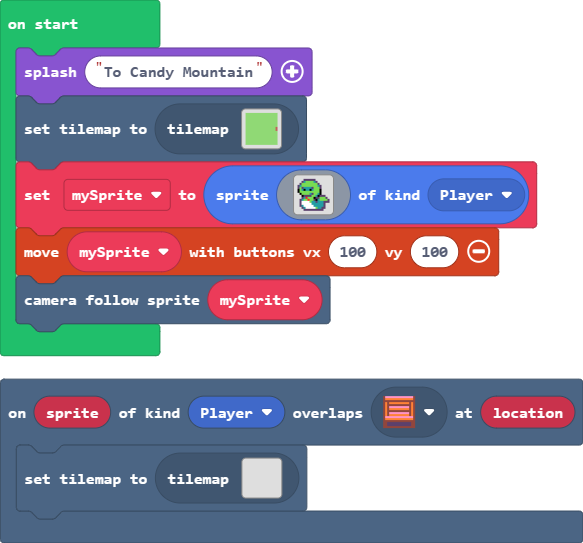
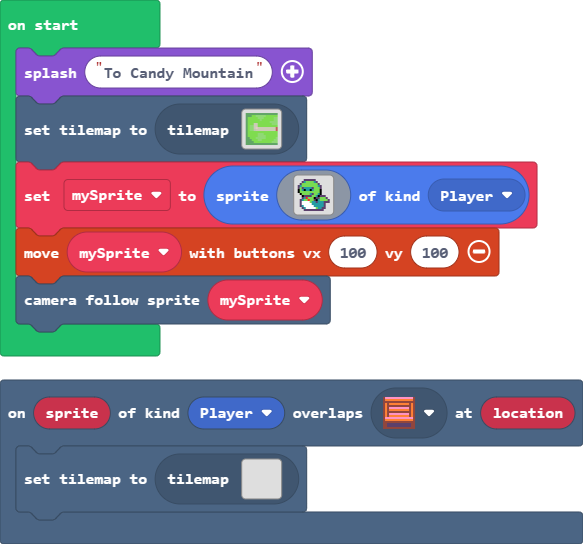
tilemap

diff --git a/tilemap.g.ts b/tilemap.g.ts
@@ -4,6 +4,8 @@ namespace myTiles {
     export const transparency16 = image.ofBuffer(hex``);
     //% fixedInstance jres blockIdentity=images._tile
     export const tile1 = image.ofBuffer(hex``);
+    //% fixedInstance jres blockIdentity=images._tile
+    export const tile2 = image.ofBuffer(hex``);
 
     helpers._registerFactory("tilemap", function(name: string) {
         switch(helpers.stringTrim(name)) {
@@ -46,24 +48,24 @@ namespace myTiles {
 . . . . . . . . . . . . . . . . 
 `, [myTiles.transparency16], TileScale.Sixteen);
             case "level2":
-            case "level2":return tiles.createTilemap(hex`1000100001010101010101010101010101010101010101010101010101010101010101010101010101010101010101010101010101010101010101010101010101010101010101010101010101010101010101010101010101010101010101010101010101010101010101010101010101010101010101010101010101010101010101020101010101010101010101010101010201010101010101010101010101010101010101010101010101010101010101010101010101010101010101010101010101010101010101010101010101010101010101010101010101010101010101010101010101010101010101010101010101010101010101010101010101010101`, img`
-. . . . . . . . . . . . . . . . 
-. . . . . . . . . . . . . . . . 
-. . . . . . . . . . . . . . . . 
-. . . . . . . . . . . . . . . . 
-. . . . . . . . . . . . . . . . 
-. . . . . . . . . . . . . . . . 
-. . . . . . . . . . . . . . . . 
-. . . . . . . . . . . . . . . . 
-. . . . . . . . . . . . . . . . 
-. . . . . . . . . . . . . . . . 
-. . . . . . . . . . . . . . . . 
-. . . . . . . . . . . . . . . . 
-. . . . . . . . . . . . . . . . 
-. . . . . . . . . . . . . . . . 
-. . . . . . . . . . . . . . . . 
-. . . . . . . . . . . . . . . . 
-`, [myTiles.transparency16,sprites.castle.tileGrass2,sprites.dungeon.stairLadder], TileScale.Sixteen);
[1 lines of base64/hex data omitted]
+2 2 2 2 2 2 2 2 2 2 2 2 2 2 2 2 
+2 2 2 . . . . . . . . . . . . . 
+2 . . . . . . . . . . . . . . . 
+2 . . . . . . . . . . . . . . . 
+2 . . . . . . . . . . . . . . . 
+2 . . . . . . . . . . . . . . . 
+2 . . . . . . . . . . . . . . . 
+2 . . . . . . . . . . . . . . . 
+2 . . . . . . . . . . . . . . . 
+2 . . . . . . . . . . . . . . . 
+2 . . . . . . . . . . . . . . . 
+2 . . . . . . . . . . . . . . . 
+2 2 . . . . . . . . . . . . . . 
+2 2 2 . . . . . . . . . . . . . 
+2 2 2 2 . . . . . . . . . . . . 
+2 2 2 2 2 2 2 2 2 2 2 2 2 2 2 2 
+`, [myTiles.transparency16,sprites.castle.tileGrass2,sprites.dungeon.stairLadder,sprites.castle.tileGrass1,myTiles.tile2,sprites.castle.tilePath2,sprites.castle.tilePath6,sprites.castle.tilePath8,sprites.castle.tilePath7,sprites.castle.tilePath4,sprites.castle.tilePath5], TileScale.Sixteen);
         }
         return null;
     })
@@ -73,6 +75,8 @@ namespace myTiles {
             case "transparency16":return transparency16;
             case "myTile":
             case "tile1":return tile1;
+            case "myTile0":
+            case "tile2":return tile2;
         }
         return null;
     })
